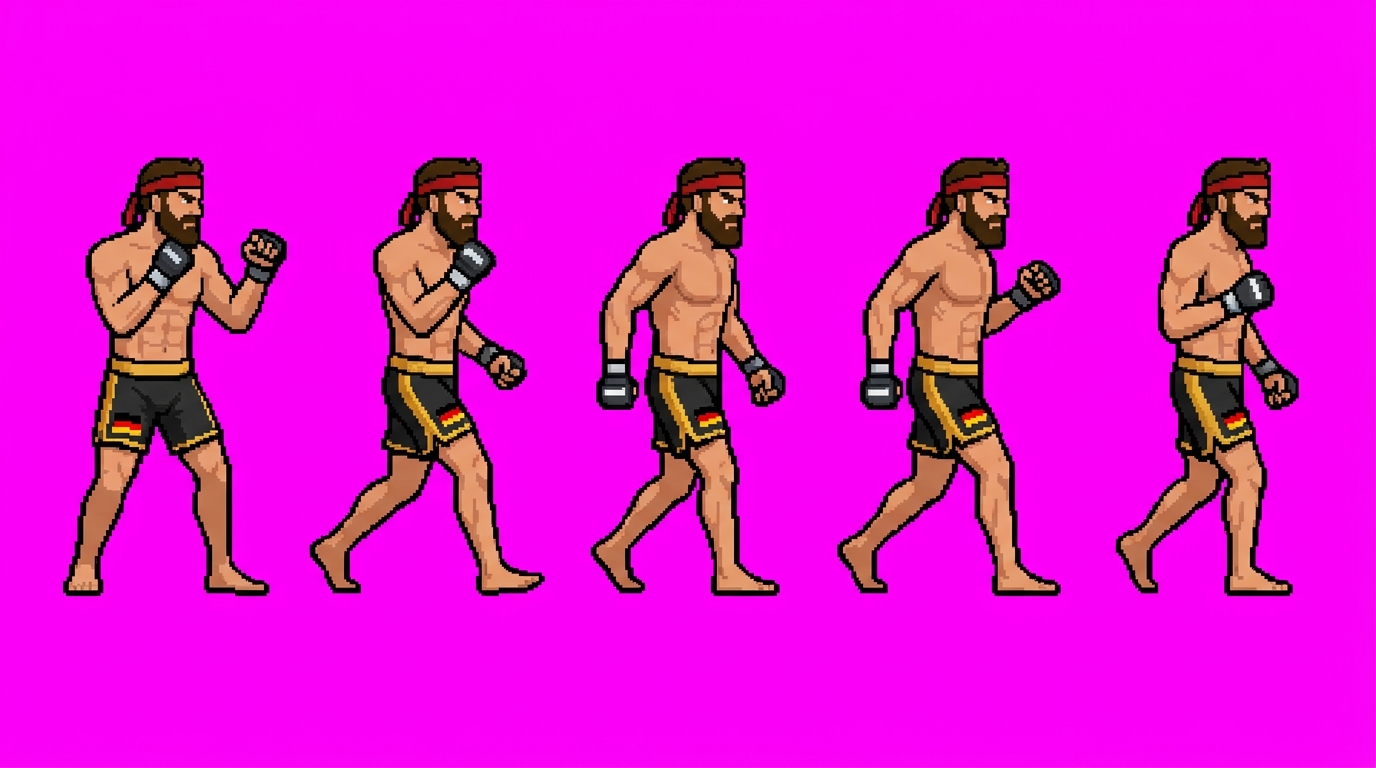
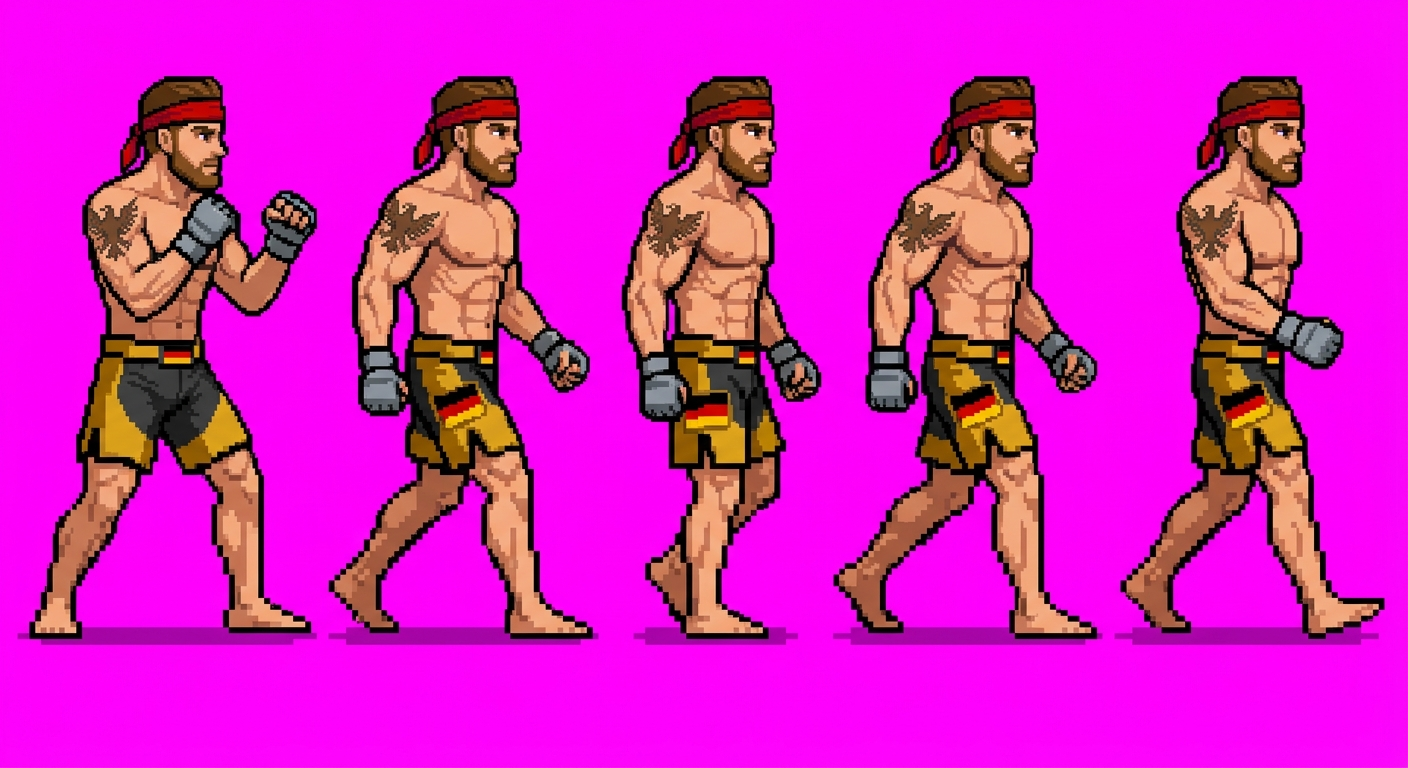
Klaus punches on five frames, and two more shapes of leftover key colour
An attack is no longer three drawings. The list can be any length with a
`hit` index: whatever comes before it plays through the wind-up, `hit`
itself is held for the whole hit window, and the rest plays out the
recovery. Three drawings with hit at 1 - the shape every move had before -
lands exactly where it used to.

A strip brings its own timing with it, so adding one is a single entry in
STRIPS rather than an entry plus an edit in sprites.js. Until the file is
actually in, the character keeps the animation it had, so a missing strip
is a shorter punch, not a broken one.

The walk strip turned up the last two shapes of background that survive
into a sprite, both of them from the rule that keeps a walled-in patch of
the key colour:

- a **speck**, where a wall happened to be just thick enough to seal a few
  pixels;
- a long thin **channel**, which is the gap between a limb and a body -
  Klaus's walk has one 25x91 between his fist and his hip, sealed at both
  ends by his own glove and shorts, and it was painting a magenta bar down
  his side as he walked.

Neither is a shape anyone draws on purpose, so both go. The pocket pass
that opens thin walls also had to be rewritten: it closed the outside over
the wall and then eroded the pocket away again, which is why raising its
radius changed nothing at all. It floods through the artwork's eroded core
instead, so a hairline wall is simply not there while a limb's worth of
drawing still seals.
[…]

diff --git a/dojo-duel/js/spritesheet.js b/dojo-duel/js/spritesheet.js
@@ -18,8 +18,11 @@ window.DD = window.DD || {};
   const THIN_MAX = 8;         // not a limb - measured per sheet, see thinness()
   const SHADE_MIN = 0.30;     // how dark a cast shadow of the field may get
   const SHADE_HUE = 0.995;    // ...and how exactly it must keep its colour
-  const POCKET = 3;           // a wall thinner than twice this does not seal
+  const POCKET = 5;           // a wall thinner than twice this does not seal
                               // a patch of background off from the outside
+  const SPECK = 60;           // a walled-in patch of the key colour smaller
+                              // than this was never drawn on purpose,
+  const CHANNEL = 2.5;        // nor was one this much longer than it is wide
   const BRIDGE = 3;           // close gaps this wide when a removed line cut
                               // a pose in two - wide enough for a drawn rule
                               // even where it crosses a figure's shins,
@@ -78,7 +81,27 @@ window.DD = window.DD || {};
   // It is never installed, so a strip cannot quietly replace the main
   // sheet's idle with a stance drawn in a different generation.
   const STRIPS = {
-    klaus: { walk: ['idle0', 'walk0', 'walk1', 'walk2', 'walk3'] },
+    klaus: {
+      walk: {
+        order: ['idle0', 'walk0', 'walk1', 'walk2', 'walk3'],
+        // The bob is in the art now, so no y-offset fakes one. Five ticks
+        // a pose: the stride is about 16px and he covers 1.25px a frame,
+        // so a shorter cycle skates less - though it can never plant a
+        // foot, since every frame is anchored on the middle of its own.
+        anims: {
+          walk: {
+            seq: [['walk0', 5, 0], ['walk1', 5, 0], ['walk2', 5, 0], ['walk3', 5, 0]],
+          },
+        },
+      },
+      punch: {
+        order: ['idle0', 'pun0', 'pun1', 'pun2', 'pun3', 'pun4'],
+        // `hit` is the drawing the arm is fully out in: held through the
+        // whole hit window, with the two before it playing the wind-up and
+        // the two after it the recovery.
+        anims: { punch: { atk: ['pun0', 'pun1', 'pun2', 'pun3', 'pun4'], hit: 2 } },
+      },
+    },
   };
 
   // Poses reused from an imported one, so a small sheet still animates.
@@ -357,6 +380,11 @@ window.DD = window.DD || {};
     // color left enclosed by artwork is artwork: the white of a flag patch
     // on a white sheet, the white core of a flame. Without this, keying on
     // a color the drawing also uses punches holes straight through it.
+    // A first pass at the artwork, used only to measure how thick the
+    // walls around a pocket are.
+    const art0 = new Uint8Array(w * h);
+    for (let p = 0; p < w * h; p++) art0[p] = line[p] || field[p] ? 0 : 1;
+
     const outside = new Uint8Array(w * h);
     {
       const stack = [];
@@ -381,15 +409,76 @@ window.DD = window.DD || {};
 
     // A pocket only counts as artwork if real bulk seals it. The rule
     // above saves a patch of the key colour walled in by a drawing - the
-    // white of a flag patch on a white sheet - but a gap between an arm
-    // and a chest is walled in too, by the few pixels where they touch,
-    // and that gap is background showing through. Close the outside over
-    // thin walls: a pocket sealed by a hairline joins the outside, one
-    // sealed by a limb's worth of drawing does not. Only field pixels are
-    // ever added, so the artwork's own edge is untouched.
+    // white of a flag patch on a white sheet - but the channel between a
+    // fist and a hip is walled in too, and that is background showing
+    // through, not artwork.
+    //
+    // So flood a second time through the drawing's *core*: erode the
+    // artwork, and anything thinner than the erode is simply not there
+    // any more, which lets the outside run through a hairline wall while
+    // a limb's worth of drawing still seals. Only field pixels are ever
+    // added, so eroding the artwork cannot eat into the artwork itself.
+    //
+    // Closing the outside instead is the obvious version and does not
+    // work: a closing opens the wall and then erodes the pocket away
+    // again, so raising its radius changes nothing at all.
     {
-      const closed = erode(dilate(outside, w, h, POCKET), w, h, POCKET);
-      for (let p = 0; p < w * h; p++) if (closed[p] && field[p]) outside[p] = 1;
+      const core = erode(art0, w, h, POCKET);
+      const seen = new Uint8Array(w * h);
+      const stack = [];
+      const push = (p) => { if (seen[p] || core[p]) return; seen[p] = 1; stack.push(p); };
+      for (let x = 0; x < w; x++) { push(x); push((h - 1) * w + x); }
+      for (let y = 0; y < h; y++) { push(y * w); push(y * w + w - 1); }
+      while (stack.length) {
+        const p = stack.pop();
+        const x = p % w, y = (p / w) | 0;
+        if (x > 0) push(p - 1);
+        if (x < w - 1) push(p + 1);
+        if (y > 0) push(p - w);
+        if (y < h - 1) push(p + w);
+      }
+      for (let p = 0; p < w * h; p++) if (seen[p] && field[p]) outside[p] = 1;
+    }
+
+    // Last pass over the pockets that are still sealed. They count as
+    // artwork - that is the rule that saves the white of a flag patch on a
+    // white sheet - but two shapes never are, and a patch of pure
+    // background left inside a fighter is the most visible thing a keyer
+    // can leave behind.
+    //
+    // A *speck* is what survives where a wall happened to be just thick
+    // enough to seal a few pixels. And a long thin *channel* is the gap
+    // between a limb and a body: Klaus's walk has one 25x91 between his
+    // fist and his hip, sealed at both ends by his own glove and shorts.
+    // Anything drawn in the key colour on purpose is a shape - roughly as
+    // wide as it is tall - not a sliver.
+    {
+      const seen = new Uint8Array(w * h);
+      const stack = [], px = [];
+      for (let p0 = 0; p0 < w * h; p0++) {
+        if (seen[p0] || !field[p0] || outside[p0]) continue;
+        px.length = 0;
+        let x0 = w, x1 = -1, y0 = h, y1 = -1;
+        seen[p0] = 1; stack.push(p0);
+        while (stack.length) {
+          const p = stack.pop();
+          px.push(p);
+          const x = p % w, y = (p / w) | 0;
+          if (x < x0) x0 = x;
+          if (x > x1) x1 = x;
+          if (y < y0) y0 = y;
+          if (y > y1) y1 = y;
+          const step = (q, ok) => {
+            if (!ok || seen[q] || !field[q] || outside[q]) return;
+            seen[q] = 1; stack.push(q);
+          };
+          step(p - 1, x > 0); step(p + 1, x < w - 1);
+          step(p - w, y > 0); step(p + w, y < h - 1);
+        }
+        const bw = x1 - x0 + 1, bh = y1 - y0 + 1;
+        const thin = Math.max(bw, bh) >= Math.min(bw, bh) * CHANNEL;
+        if (px.length < SPECK || thin) for (const p of px) outside[p] = 1;
+      }
     }
 
     const art = new Uint8Array(w * h);
@@ -721,12 +810,16 @@ window.DD = window.DD || {};
     return n;
   }
 
-  function loadSheet(charKey, file, order, rank, label) {
+  // A strip brings its timing with it. Until the file is actually in and
+  // its drawings are cut, the character keeps the animation it had - so a
+  // missing strip is a character with a shorter punch, not a broken one.
+  function loadSheet(charKey, file, order, rank, label, anims) {
     const src = (DD.SHEETS && DD.SHEETS[file]) || `assets/${file}.png`;
     const img = new Image();
     img.onload = () => {
       try {
         const n = install(charKey, img, order, rank);
+        if (n && anims) Object.assign(DD.sprites.CHARS[charKey].anims, anims);
         if (n) console.info(`[dojo] ${label}: ${n} frames from sprite sheet`);
       } catch (e) {
         console.warn(`[dojo] ${label}: sheet import failed`, e);
@@ -739,8 +832,9 @@ window.DD = window.DD || {};
   function load() {
     for (const charKey of Object.keys(DD.sprites.CHARS)) {
       loadSheet(charKey, charKey, SHEET_ORDER[charKey] || ORDER, 1, charKey);
-      for (const [move, order] of Object.entries(STRIPS[charKey] || {})) {
-        loadSheet(charKey, `${charKey}-${move}`, order, 2, `${charKey} ${move}`);
+      for (const [move, strip] of Object.entries(STRIPS[charKey] || {})) {
+        loadSheet(charKey, `${charKey}-${move}`, strip.order, 2,
+          `${charKey} ${move}`, strip.anims);
       }
     }
   }

diff --git a/dojo-duel/tools/sheet-test.js b/dojo-duel/tools/sheet-test.js
@@ -58,18 +58,21 @@ function check(name, cond, extra) {
     const out = {};
     const S = window.DD.spritesheet;
     for (const [charKey, moves] of Object.entries(S.STRIPS)) {
-      for (const [move, order] of Object.entries(moves)) {
+      for (const [move, strip] of Object.entries(moves)) {
         const frames = await S.inspect(`assets/${charKey}-${move}.png`);
         const skin = Object.keys(window.DD.sprites.frames[charKey])[0];
         out[`${charKey}-${move}`] = {
           found: frames.length,
-          expected: order.length,
-          missing: order.slice(1)
+          expected: strip.order.length,
+          missing: strip.order.slice(1)
             .filter((n) => n && !window.DD.sprites.frames[charKey][skin][n]),
-          // every frame of a movement is the same fighter, so they must
-          // come out the same height - a strip whose figures drift in size
-          // pops as the animation plays
-          heights: [...new Set(frames.map((f) => f.height))],
+          // Every frame of a movement is the same fighter, so they must
+          // come out about the same height: a strip whose figures were
+          // drawn at different sizes pops as the animation plays. A pixel
+          // or two of slack, though - a punch leans in and the head dips,
+          // and that is the drawing being right, not drifting.
+          heights: [Math.min(...frames.map((f) => f.height)),
+            Math.max(...frames.map((f) => f.height))],
         };
       }
     }
@@ -80,8 +83,9 @@ function check(name, cond, extra) {
       `found ${r.found}, order lists ${r.expected}`);
     check(`${name}: its poses reach the game`, r.missing.length === 0,
       `missing ${r.missing.join(', ')}`);
-    check(`${name}: every frame comes out the same height`, r.heights.length === 1,
-      `heights ${r.heights.join(', ')}`);
+    const [lo, hi] = r.heights;
+    check(`${name}: its figures are all drawn at one size`, hi - lo <= hi * 0.10,
+      `frames run ${lo}px to ${hi}px tall`);
   }
 
   // --- a light background ---------------------------------------------------

diff --git a/dojo-duel/js/fighter.js b/dojo-duel/js/fighter.js
@@ -469,10 +469,28 @@ window.DD = window.DD || {};
           return { f, yo: 0 };
         }
         case 'attack': {
+          // The drawings spread over the move's own frame data: whatever
+          // comes before `hit` plays through the wind-up, `hit` itself is
+          // held for the whole hit window, and the rest plays out the
+          // recovery. Three drawings with hit at 1 - the shape every move
+          // had before any of them got a strip - lands exactly where it
+          // used to.
           const a = DD.ATTACKS[this.atkName];
-          const fr = anims[this.atkName].atk;
-          const f = this.atkT < a.startup ? fr[0]
-            : this.atkT < a.startup + a.active ? fr[1] : fr[2];
+          const an = anims[this.atkName];
+          const fr = an.atk;
+          const hit = Math.min(fr.length - 1, an.hit === undefined ? 1 : an.hit);
+          const span = (from, to, t, dur) => {
+            const lo = Math.max(0, from), hi = Math.min(fr.length - 1, to);
+            if (hi <= lo) return fr[Math.min(lo, fr.length - 1)];
+            const n = hi - lo + 1;
+            return fr[lo + Math.min(n - 1, Math.floor((t / Math.max(1, dur)) * n))];
+          };
+          const f = this.atkT < a.startup
+            ? span(0, hit - 1, this.atkT, a.startup)
+            : this.atkT < a.startup + a.active
+              ? fr[hit]
+              : span(hit + 1, fr.length - 1,
+                this.atkT - a.startup - a.active, a.recovery);
           return { f, yo: 0 };
         }
         case 'airkick': return { f: anims.airkick.atk[1], yo: 0 };

diff --git a/dojo-duel/js/sprites.js b/dojo-duel/js/sprites.js
@@ -4203,13 +4203,11 @@ window.DD = window.DD || {};
       }),
       anims: {
         idle: { seq: [['idle0', 12, 0], ['idle0', 9, 1], ['idle1', 12, 1], ['idle1', 9, 0]] },
-        // Four real drawings from `assets/klaus-walk.png`; the bob is in
-        // the art now, so there is no y-offset to fake one with. Five
-        // ticks a pose: the art's stride is about 16px and he covers
-        // 1.25px a frame, so a shorter cycle skates less - but it cannot
-        // be made to plant a foot, because every frame is anchored on the
-        // middle of the feet and so recentres itself.
-        walk: { seq: [['walk0', 5, 0], ['walk1', 5, 0], ['walk2', 5, 0], ['walk3', 5, 0]] },
+        // Without a strip this is one drawing and three aliases of the
+        // idle pose, faked into a gait with a y-offset bob. A strip
+        // replaces both the drawings and this timing - see STRIPS in
+        // js/spritesheet.js.
+        walk: { seq: [['walk0', 6, 0], ['walk1', 6, 1], ['walk2', 6, 0], ['walk3', 6, 0]] },
         win: { seq: [['win0', 14, 0], ['win0', 12, 1]] },
         punch: { atk: ['pun0', 'pun1', 'pun2'] },
         kick: { atk: ['kick0', 'kick1', 'kick0'] },

diff --git a/dojo-duel/assets/README.md b/dojo-duel/assets/README.md
@@ -273,6 +273,15 @@ naming the poses it fills. It is loaded beside that fighter's main sheet,
 and a pose on a strip wins over the same pose on the sheet whichever image
 the browser happens to finish first.
 
+**Keep a strip looking like the sheet.** This is the part that bites. A
+strip is a separate generation, so the character drifts between it and the
+main sheet — Klaus's first walk strip came back in gold shorts where his
+sheet has black ones, which flips his colours the moment he takes a step.
+Feed the existing sheet in as a reference image if your generator takes
+one, and check the strip against it before wiring it up: **colours,
+build, and any marking** — a tattoo that only exists on the strip appears
+and vanishes with the movement.
+
 **What the importer does about a cast shadow.** It removes it, however
 firmly the prompt asked for none. A shadow is the background colour with
 the light taken out of it — same colour, darker — and nothing in a drawing
@@ -282,6 +291,14 @@ into the sprite as a magenta wedge between the knees. The same rule draws
 a line under how much a pocket has to be sealed by: a gap between an arm
 and a chest is closed by the few pixels where they touch, and that is
 background showing through, not artwork.
+
+The rule that keeps a walled-in patch of the key colour — the white of a
+flag patch on a white sheet — now has two exceptions, both of them shapes
+nobody draws on purpose. A **speck** is what survives where a wall was
+just thick enough to seal a few pixels. A long thin **channel** is the gap
+between a limb and a body: Klaus's walk has one 25x91 pixels between his
+fist and his hip, sealed at both ends by his own glove and shorts, and
+left in it painted a magenta bar down his side.
 
 ### Poses that need two people
 

diff --git a/dojo-duel/ROADMAP.md b/dojo-duel/ROADMAP.md
@@ -262,7 +262,19 @@ implements. Every milestone ends in a playable build.
       on the middle of its own feet, so each one recentres itself and some
       skate is inherent. It would take a per-frame anchor offset that
       follows the planted foot instead
-- [ ] Strips for the punch, the kick and the idle; the other two fighters
+- [x] Klaus punches on five drawn frames. An attack plays any number of
+      drawings now: whatever comes before `hit` runs through the wind-up,
+      `hit` is held for the whole hit window, the rest plays the recovery
+- [x] A strip brings its own timing, so adding one is a single entry
+- [x] Two more shapes of leftover background keyed out: a speck sealed by
+      a wall that happened to be thick enough, and the long thin channel
+      between a limb and a body, which was painting a magenta bar down
+      Klaus's side as he walked
+- [ ] **Open: the strips drift from the sheet.** A strip is a separate
+      generation, so Klaus's walk came back in gold shorts where his sheet
+      has black ones. Generating every movement for one fighter in one
+      image would at least make the strips agree with each other
+- [ ] Strips for the kick and the idle; the other two fighters
 
 ### M7 – Sound & music
 - [ ] Chiptune tracks per stage (WebAudio sequencer), more SFX variants
